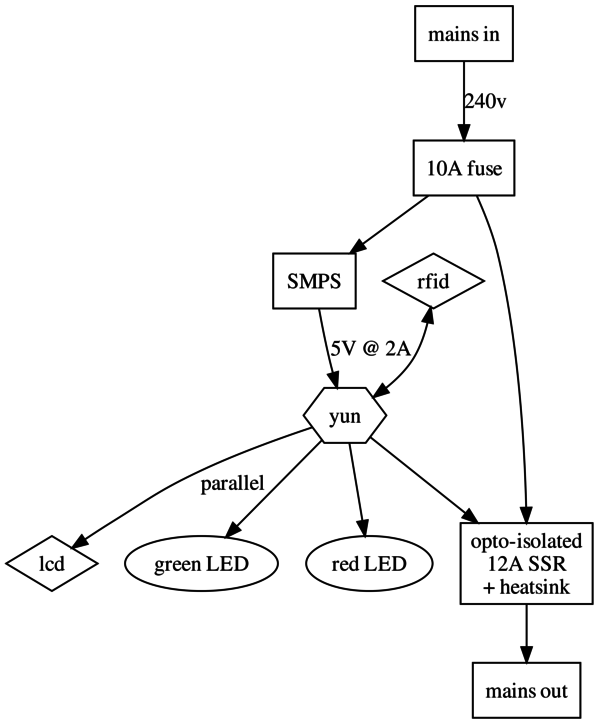
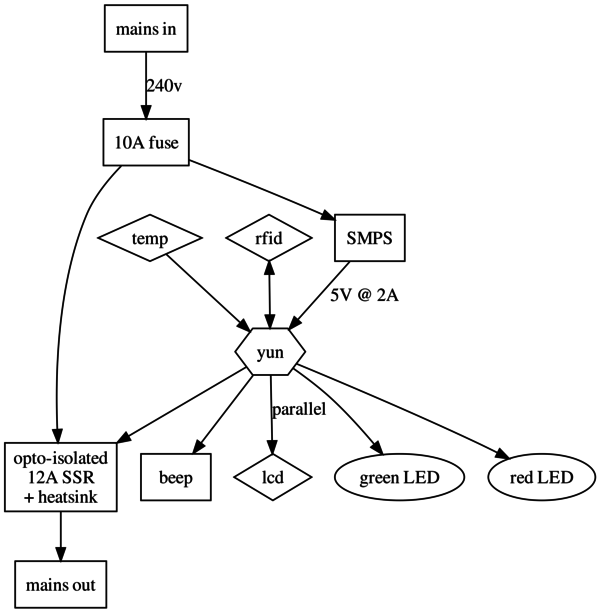
docs

diff --git a/README.md b/README.md
@@ -18,7 +18,7 @@ purposes.
 * If a new user is detected while machine is on, finish previous user's session and start a new one.
 * Never switch off/time out the connected machine in case it's a long job.
 * Pull validated users once per day and store locally in case internet is unavailable.
-* If internet is unavailable discard usage logging, add a queue later.
+* If internet is unavailable discard usage logging. Possible to add a queue later.
 
 ## Flowchart
 
@@ -30,7 +30,7 @@ Beep whenever a session starts or ends.
 
 ## LEDs
 
-* Red LED under the inlet IEC comes on with Yun at boot.
+* Red under the inlet IEC comes on with Yun at boot.
 * Green under outlet IEC comes on with SSR.
 
 ## LCD messages
@@ -78,7 +78,7 @@ Capital letter means true, lower; false
 
 ![electrical components and wiring](electrical.png)
 
-## Parts list
+## Bill of Materials
 
 * [Arduino Yun](http://uk.rs-online.com/web/p/products/7824594/)
 * [10W 5V PSU](http://uk.rs-online.com/web/p/products/0327936/)
@@ -91,7 +91,7 @@ Capital letter means true, lower; false
 * [temperature sensor TMP36](http://uk.rs-online.com/web/p/products/0427351/)
 * [case](http://uk.rs-online.com/web/p/products/3648223/)
 
-## Case
+## Layout
 
 [generated with openscad file case.scad](case.scad)
 
